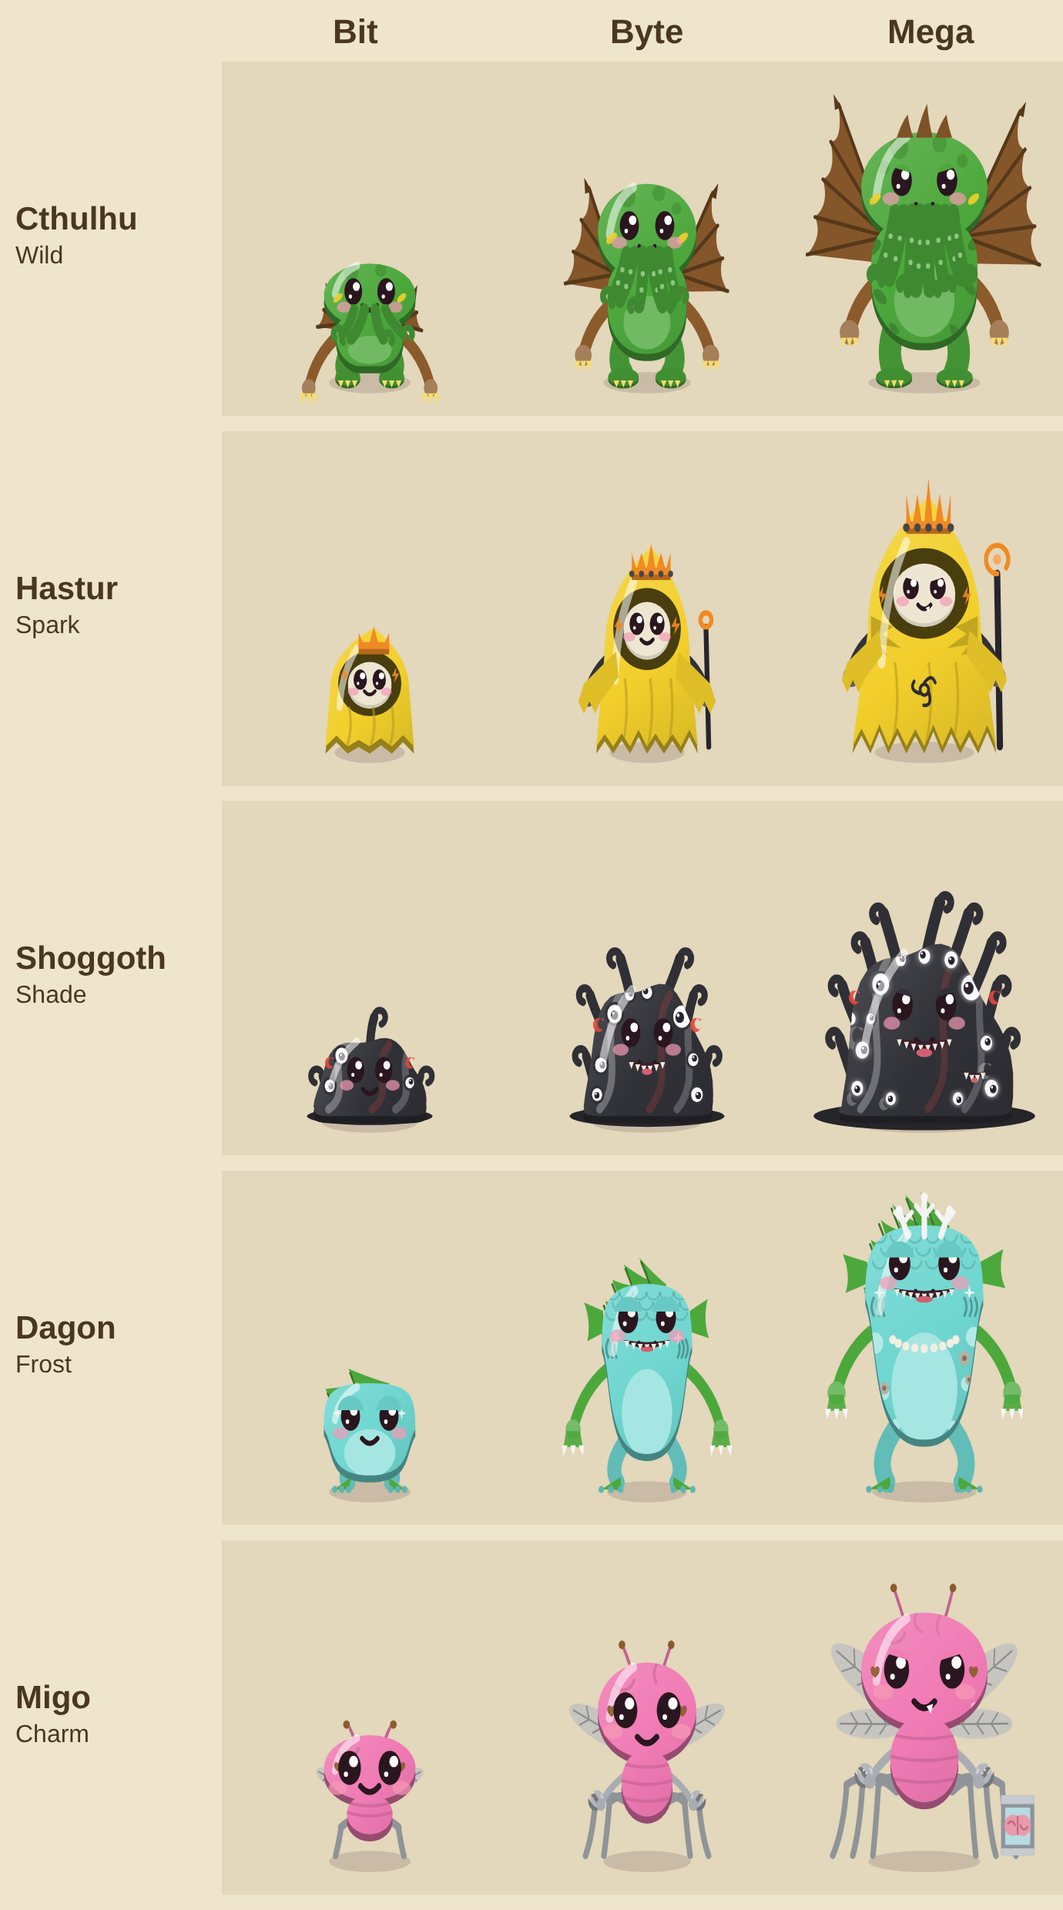
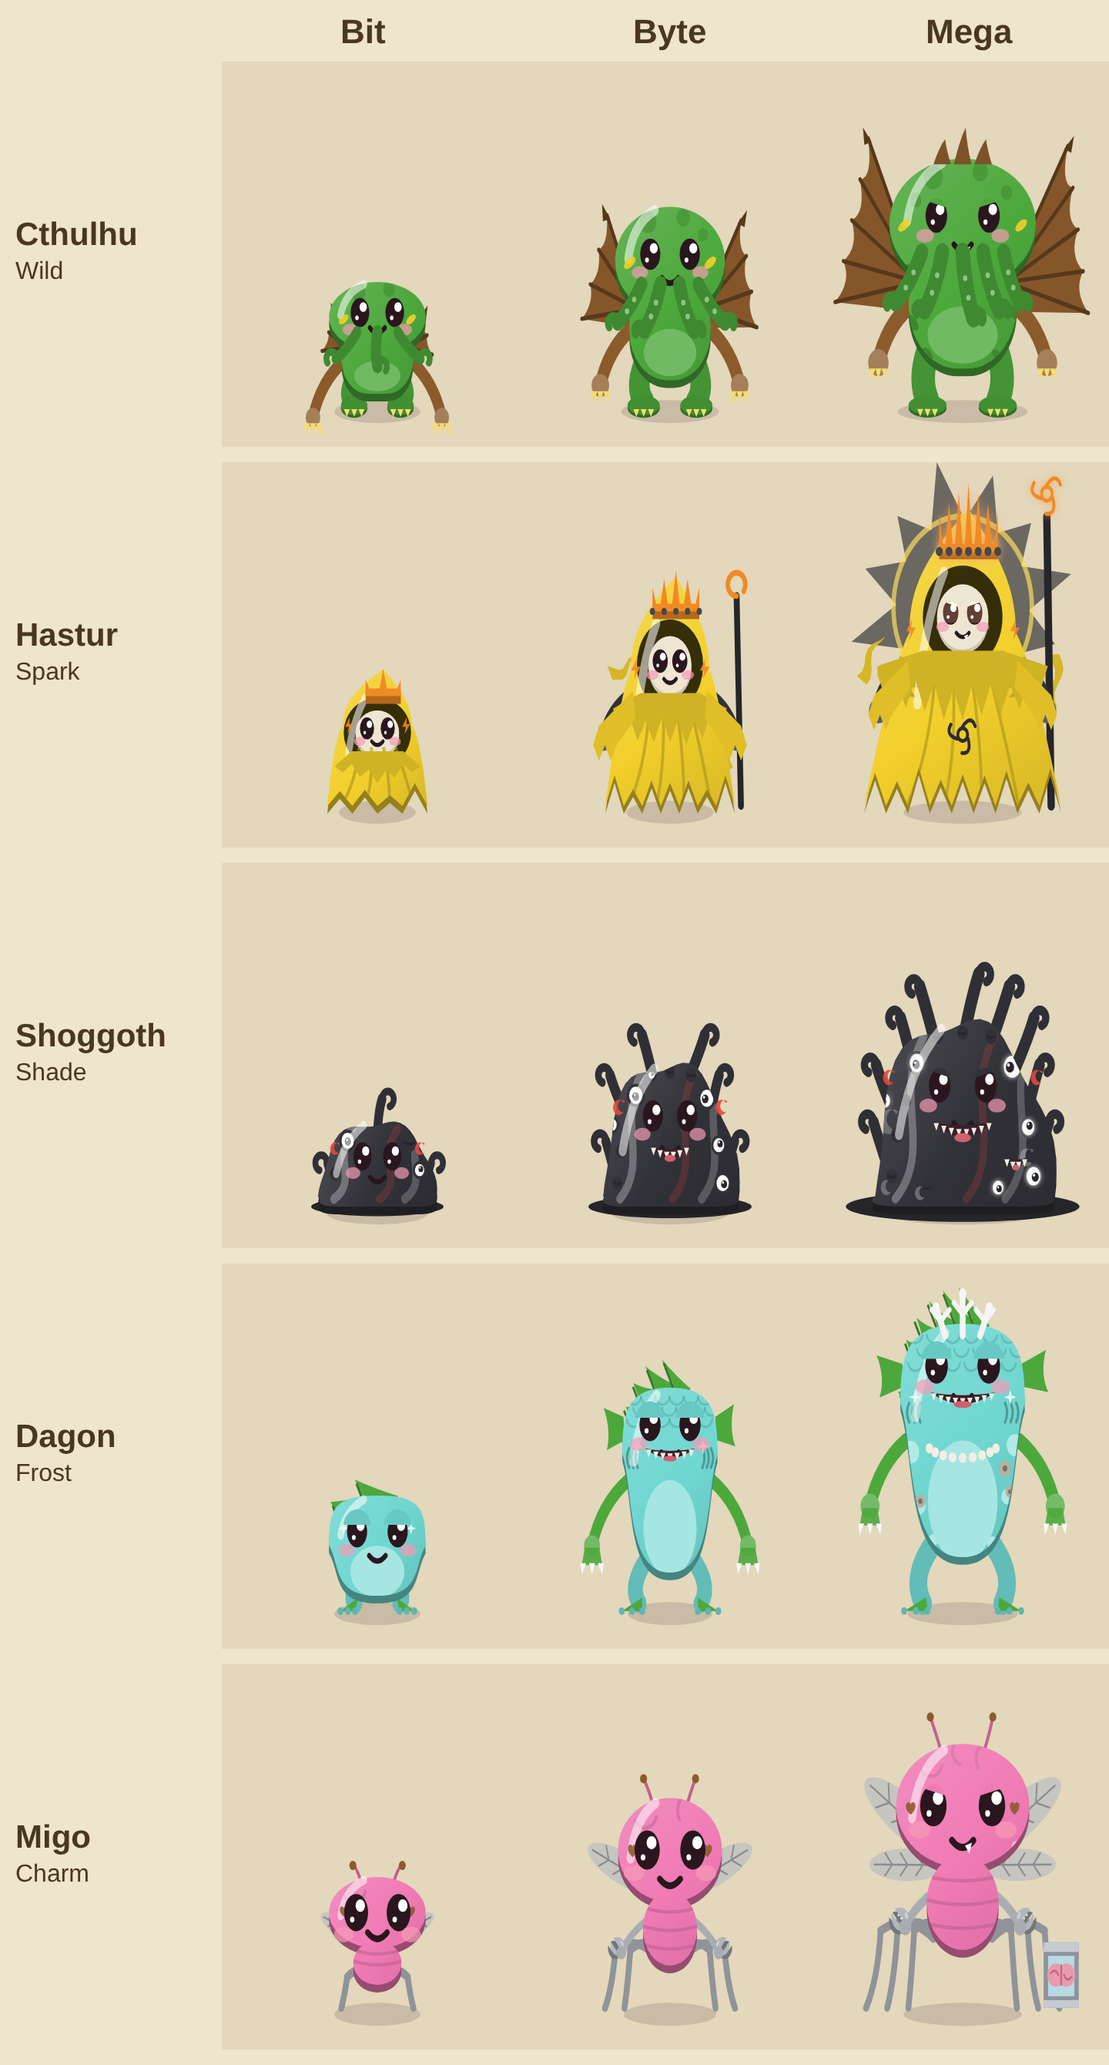
Cthulhu keeps its Bit shape, Hastur gets more presence, Shoggoth's eyes close in waves
Cthulhu: fewer feelers, spread wider, and the Bit's round body at every stage.
Hastur: a torn mantle cut into long points, rags drifting round it, a dark halo, glowing
eyes and a seven-point crown at Mega, and a sign on its staff.
Shoggoth: patches of eyes sink shut while others open across its body.

Claude-Session: https://claude.ai/code/session_01MQWzxVrGaM5SWzbnobBWB8

diff --git a/prototype/chibi.js b/prototype/chibi.js
@@ -3293,10 +3293,10 @@ x.feet.push([g.cx, 182, 10]); },
     /* ---------- the horror series: cosmic horrors from the Rift, drawn cute ---------- */
     /* Cthulhu: an octopus head with a beard of feelers on a crouching body, big bat wings and clawed hands and feet. Small wings and four feelers; long clawed arms, suckers and wings over its head from Byte; huge ribbed wings, eight feelers and a ridge of spines at Mega */
     Cthulhu: {
-      special: true, dims: { Bit: [62, 64], Byte: [74, 86], Mega: [86, 104] }, ll: st => by(st, 6, 9, 11),
+      special: true, dims: { Bit: [62, 64], Byte: [78, 80], Mega: [94, 96] }, ll: st => by(st, 6, 9, 11),
       bottom(st) { return 182 - this.ll(st); }, height(st) { return this.dims[st][1] + this.ll(st) + by(st, 18, 36, 56); },
-      hh: g => g.bh * by(g.stage, 0.62, 0.56, 0.52),
-      path(c, g) { const hh = this.hh(g), tw = g.bw * by(g.stage, 0.74, 0.8, 0.84); c.beginPath(); c.ellipse(g.cx, g.top + hh / 2, g.bw / 2, hh / 2, 0, 0, 7);
+      hh: g => g.bh * 0.62,
+      path(c, g) { const hh = this.hh(g), tw = g.bw * 0.74; c.beginPath(); c.ellipse(g.cx, g.top + hh / 2, g.bw / 2, hh / 2, 0, 0, 7);
         c.moveTo(g.cx + tw / 2, g.top + hh * 0.8); c.roundRect(g.cx - tw / 2, g.top + hh * 0.8, tw, g.bot - g.top - hh * 0.8, [tw * 0.3, tw * 0.3, tw * 0.46, tw * 0.46]); },
       arms: 'stub', armW: st => by(st, 7, 8, 9), handR: st => by(st, 5, 6, 7), shoulderY: 0.7, shoulderIn: 0.1, armK: 1.35,
       hand(g, x, side) { const a = x.P.arm[side < 0 ? 0 : 1], k = this.armK, sx = g.cx + side * (g.bw / 2 - 4 - g.bw * this.shoulderIn), sy = g.top + g.bh * this.shoulderY; return [sx + side * a[2] * k, sy + a[3] * k]; },
@@ -3316,9 +3316,9 @@ x.feet.push([g.cx, 182, 10]); },
       inside(c, g, x) { const S = g.stage, hh = this.hh(g); c.fillStyle = rgba(dk(x.body, 0.18), 0.55);   // spots on the head
         for (const [fx, fy, r] of [[0.3, 0.14, 5], [0.62, 0.1, 4], [0.8, 0.26, 3], [0.18, 0.32, 3]].slice(0, by(S, 2, 3, 4))) { c.beginPath(); c.arc(g.left + g.bw * fx, g.top + hh * fy, r * by(S, 1, 1.15, 1.3), 0, 7); c.fill(); }
         c.fillStyle = rgb(lt(x.body, 0.2)); c.beginPath(); c.ellipse(g.cx, g.bot - (g.bot - g.top - hh) * 0.42, g.bw * 0.24, (g.bot - g.top - hh) * 0.36, 0, 0, 7); c.fill(); },   // a round belly
-      front(c, g, x) { const S = g.stage, hh = this.hh(g), n = by(S, 4, 6, 8), y0 = g.top + hh * 0.72, len = by(S, 18, 32, 46), span = g.bw * by(S, 0.34, 0.42, 0.46), col = dk(x.body, 0.18);
+      front(c, g, x) { const S = g.stage, hh = this.hh(g), n = by(S, 3, 4, 5), y0 = g.top + hh * 0.72, len = by(S, 18, 26, 34), span = g.bw * by(S, 0.42, 0.52, 0.56), col = dk(x.body, 0.18);
         if (!x.back) for (let i = 0; i < n; i++) { const f = i / (n - 1) - 0.5, tx = g.cx + f * span, sw = Math.sin(x.t / 300 + i * 1.7) * 4, cu = f < 0 ? -1 : 1, l = len * (1 - Math.abs(f) * 0.45);   // the beard of feelers
-          const q = [tx, y0, tx + f * 6 + sw * 0.5, y0 + l * 0.6, tx + f * 10 + sw + cu * 4, y0 + l]; limb(c, q, by(S, 7, 8, 9) - Math.abs(f) * 2, col, x.L.armL, x.t);
+          const q = [tx, y0, tx + f * 12 + sw * 0.5, y0 + l * 0.6, tx + f * 22 + sw + cu * 4, y0 + l]; limb(c, q, by(S, 7, 9, 10) - Math.abs(f) * 2, col, x.L.armL, x.t);
           c.strokeStyle = rgb(col); c.lineWidth = by(S, 4, 4.5, 5); c.lineCap = 'round'; c.beginPath(); c.arc(q[4] + cu * 3, q[5], 3.5, cu > 0 ? Math.PI : 0, cu > 0 ? Math.PI * 2.2 : -Math.PI * 1.2, cu < 0); c.stroke();
           if (S !== 'Bit') { c.fillStyle = rgb(lt(x.body, 0.35)); for (const k of [0.35, 0.65]) { const p = qpt(q, k); c.beginPath(); c.arc(p[0], p[1], 1.5, 0, 7); c.fill(); } } }   // suckers
         if (!x.back) for (const sd of [-1, 1]) { const [hx, hy] = this.hand(g, x, sd); c.fillStyle = rgb(lt(x.acc, 0.3)); for (const k of [-1, 0, 1]) { c.beginPath(); c.moveTo(hx + k * 4 - 2, hy + 3); c.lineTo(hx + k * 5, hy + 9); c.lineTo(hx + k * 4 + 2, hy + 3); c.closePath(); c.fill(); } }   // claws
@@ -3327,40 +3327,57 @@ x.feet.push([g.cx, 182, 10]); },
       head: g => [g.cx, g.top, g.bw * 0.46],
       face(c, g, x, look) { const hh = FAM.Cthulhu.hh(g); return faceTwo(c, g, x, look, { ey: hh * 0.44 / g.bh, ex: 0.18, my: hh * 0.66 / g.bh, s: by(g.stage, 0.74, 0.8, 0.86) }); }
     },
-    /* Hastur: the King in Yellow. A tall hood with a pale mask deep inside it, a long tattered robe to the ground and a crown on the hood. A small crown; wide torn sleeves, pale hands and a staff from Byte; a tall crown with jewels, a staff with a curling head and a sign on the robe at Mega */
+    /* Hastur: the King in Yellow. A tall hood with a pale mask deep inside it, a long tattered robe to the ground, a torn mantle over its shoulders and a crown on the hood. A small crown; torn sleeves, a staff, a taller crown and rags drifting round it from Byte; a huge crown, a dark halo behind it, glowing eyes, a staff with its sign and a flared, ragged robe at Mega */
     Hastur: {
-      special: true, dims: { Bit: [54, 66], Byte: [64, 88], Mega: [76, 108] }, slots: { feet: false },
-      bottom() { return 182; }, height(st) { return this.dims[st][1] + by(st, 22, 34, 50); },
+      special: true, dims: { Bit: [56, 68], Byte: [70, 92], Mega: [86, 116] }, slots: { feet: false },
+      bottom() { return 182; }, height(st) { return this.dims[st][1] + by(st, 26, 40, 62); },
       mask: [238, 230, 210],
-      path(c, g, x) { const S = g.stage, R = g.left + g.bw, fl = g.bw * by(S, 0.06, 0.1, 0.14), n = by(S, 4, 6, 8), j = by(S, 5, 8, 11), t = x ? x.t : 0, tip = by(S, 8, 14, 18);
-        c.beginPath(); c.moveTo(g.cx + 3, g.top - tip); c.bezierCurveTo(g.cx + g.bw * 0.3, g.top + g.bh * 0.02, R, g.top + g.bh * 0.2, R, g.top + g.bh * 0.46); c.lineTo(R + fl, g.bot);
-        for (let i = 1; i <= n * 2; i++) { const f = i / (n * 2), px = R + fl - f * (g.bw + fl * 2), w = Math.sin(t / 260 + i) * 1.5; c.lineTo(px, i % 2 ? g.bot - j + w : g.bot); }   // the tattered hem
-        c.lineTo(g.left - fl, g.bot); c.lineTo(g.left, g.top + g.bh * 0.46); c.bezierCurveTo(g.left, g.top + g.bh * 0.2, g.cx - g.bw * 0.3, g.top + g.bh * 0.02, g.cx + 3, g.top - tip); c.closePath(); },
-      arms: 'stub', armW: st => by(st, 0, 8, 9), handR: st => by(st, 0, 5, 6), shoulderY: 0.5,
+      path(c, g, x) { const S = g.stage, R = g.left + g.bw, fl = g.bw * by(S, 0.08, 0.16, 0.24), n = by(S, 4, 7, 9), j = by(S, 6, 10, 14), t = x ? x.t : 0, tip = by(S, 10, 16, 22);
+        c.beginPath(); c.moveTo(g.cx + 4, g.top - tip); c.bezierCurveTo(g.cx + g.bw * 0.28, g.top + g.bh * 0.02, g.cx + g.bw * 0.4, g.top + g.bh * 0.14, g.cx + g.bw * 0.4, g.top + g.bh * 0.32);
+        c.quadraticCurveTo(R, g.top + g.bh * 0.4, R + fl, g.bot);   // the robe flaring out wide to the ground
+        for (let i = 1; i <= n * 2; i++) { const f = i / (n * 2), px = R + fl - f * (g.bw + fl * 2), w = Math.sin(t / 260 + i) * 2; c.lineTo(px, i % 2 ? g.bot - j - (i % 4 === 1 ? 4 : 0) + w : g.bot); }   // the tattered hem
+        c.lineTo(g.left - fl, g.bot); c.quadraticCurveTo(g.left, g.top + g.bh * 0.4, g.cx - g.bw * 0.4, g.top + g.bh * 0.32);
+        c.bezierCurveTo(g.cx - g.bw * 0.4, g.top + g.bh * 0.14, g.cx - g.bw * 0.28, g.top + g.bh * 0.02, g.cx + 4, g.top - tip); c.closePath(); },
+      arms: 'stub', armW: st => by(st, 0, 8, 10), handR: st => by(st, 0, 5, 6.5), shoulderY: 0.46,
       hand(g, x, side) { const a = x.P.arm[side < 0 ? 0 : 1], sx = g.cx + side * (g.bw / 2 - 4), sy = g.top + g.bh * this.shoulderY; return [sx + side * a[2], sy + a[3]]; },
       sign(c, cx, cy, r, col) { c.strokeStyle = col; c.lineWidth = 2; c.lineCap = 'round'; c.beginPath(); c.arc(cx, cy, r * 0.28, 0, 7); c.stroke();   // its own sign: three hooks round a ring
         for (let k = 0; k < 3; k++) { const a = k * Math.PI * 2 / 3 - Math.PI / 2; c.beginPath(); c.moveTo(cx + Math.cos(a) * r * 0.36, cy + Math.sin(a) * r * 0.36);
           c.quadraticCurveTo(cx + Math.cos(a + 0.5) * r, cy + Math.sin(a + 0.5) * r, cx + Math.cos(a + 1.1) * r * 0.8, cy + Math.sin(a + 1.1) * r * 0.8); c.stroke(); } },
-      behind(c, g, x) { const S = g.stage; if (S === 'Bit') return; const [hx, hy] = this.hand(g, x, 1), top = hy - by(S, 0, 40, 58), gold = x.acc;   // the staff, held in its right hand
-        c.strokeStyle = rgb(dk(x.parts, 0.25)); c.lineWidth = by(S, 0, 3.5, 4.5); c.lineCap = 'round'; c.beginPath(); c.moveTo(hx + 2, 182); c.lineTo(hx, top); c.stroke();
-        c.strokeStyle = rgb(gold); c.lineWidth = 3; c.beginPath(); if (S === 'Mega') { c.arc(hx, top - 8, 8, Math.PI * 0.5, Math.PI * 2.2); } else { c.arc(hx, top - 4, 4, 0, 7); } c.stroke();
-        if (S === 'Mega') { c.fillStyle = rgb(lt(gold, 0.3)); c.beginPath(); c.arc(hx, top - 8, 3, 0, 7); c.fill(); } },
-      inside(c, g, x) { const S = g.stage, mx = g.cx, my = g.top + g.bh * by(S, 0.38, 0.32, 0.29), rx = g.bw * 0.32, ry = g.bh * by(S, 0.24, 0.18, 0.16);
-        c.fillStyle = rgb(dk(x.body, 0.7)); c.beginPath(); c.ellipse(mx, my + 1, rx * 1.25, ry * 1.3, 0, 0, 7); c.fill();   // the deep, dark hood
-        c.fillStyle = rgb(dk(this.mask, 0.12)); c.beginPath(); c.ellipse(mx, my + 3, rx * 0.86, ry * 0.86, 0, 0, 7); c.fill(); c.fillStyle = rgb(this.mask); c.beginPath(); c.ellipse(mx, my + 1, rx * 0.86, ry * 0.86, 0, 0, 7); c.fill();   // the pale mask
-        c.strokeStyle = rgba(dk(x.body, 0.25), 0.6); c.lineWidth = 1.8; for (const f of [-0.26, 0.04, 0.28]) { c.beginPath(); c.moveTo(g.cx + g.bw * f, g.top + g.bh * 0.62); c.quadraticCurveTo(g.cx + g.bw * (f + 0.05), g.top + g.bh * 0.82, g.cx + g.bw * (f - 0.03), g.bot); c.stroke(); }   // folds
-        if (S === 'Mega' && !x.back) this.sign(c, g.cx, g.top + g.bh * 0.74, 11, rgb(dk(x.parts, 0.1))); },
-      front(c, g, x) { const S = g.stage, col = x.acc;
-        if (S !== 'Bit') for (const sd of [-1, 1]) { const [hx, hy] = this.hand(g, x, sd), sx = g.cx + sd * (g.bw / 2 - 4), sy = g.top + g.bh * this.shoulderY;   // wide torn sleeves
-          c.fillStyle = rgb(dk(x.body, 0.08)); c.beginPath(); c.moveTo(sx - sd * 4, sy - 4); c.lineTo(hx + sd * 3, hy - 8); for (let k = 0; k <= 4; k++) c.lineTo(hx + sd * (7 - k * 4), hy + 2 + (k % 2 ? 7 : 0)); c.lineTo(sx - sd * 6, sy + 10); c.closePath(); c.fill(); }
-        const cy = g.top + by(S, 2, 0, -2), cw = by(S, 11, 14, 16), ch = by(S, 9, 13, 22), pts = by(S, 3, 5, 5);   // a crown on the hood
-        c.fillStyle = rgb(dk(col, 0.25)); c.fillRect(g.cx + 3 - cw, cy - 1, cw * 2, 6); c.fillStyle = rgb(col); c.beginPath(); c.moveTo(g.cx + 3 - cw, cy + 2);
-        for (let i = 0; i < pts; i++) { const f = i / (pts - 1), px = g.cx + 3 - cw + f * cw * 2, mid = i === (pts - 1) / 2; c.lineTo(px - (i ? 3 : 0), cy - 2); c.lineTo(px, cy - ch * (mid ? 1.2 : 0.8)); c.lineTo(px + (i < pts - 1 ? 3 : 0), cy - 2); }
-        c.lineTo(g.cx + 3 + cw, cy + 2); c.closePath(); c.fill();
-        if (S !== 'Bit') { c.fillStyle = rgb(lt(x.parts, 0.1)); for (let i = 0; i < pts; i++) { c.beginPath(); c.arc(g.cx + 3 - cw + i / (pts - 1) * cw * 2, cy + 1.5, S === 'Mega' ? 2.4 : 1.8, 0, 7); c.fill(); } } },   // jewels on the band
-      hl: g => [g.left + g.bw * 0.12, g.top + g.bh * 0.62, g.left + g.bw * 0.14, g.top + g.bh * 0.3, g.left + g.bw * 0.34, g.top + g.bh * 0.06],
-      head: g => [g.cx, g.top + 4, g.bw * 0.4],
-      face: (c, g, x, look) => faceTwo(c, g, x, look, { ey: by(g.stage, 0.36, 0.3, 0.27), ex: 0.12, my: by(g.stage, 0.47, 0.39, 0.35), lidCol: FAM.Hastur.mask, s: by(g.stage, 0.56, 0.62, 0.66) })
+      rag(c, x0, y0, len, a, col, t, k) { c.save(); c.translate(x0, y0); c.rotate(a); c.fillStyle = rgb(col); c.beginPath(); c.moveTo(0, -4);   // a strip of torn cloth
+        for (let i = 0; i <= 6; i++) c.lineTo(i * len / 6, -4 * (1 - i / 7) + Math.sin(t / 240 + k + i) * 2.5); c.lineTo(len + 4, Math.sin(t / 240 + k + 7) * 2.5);
+        for (let i = 6; i >= 0; i--) c.lineTo(i * len / 6, 4 * (1 - i / 7) + Math.sin(t / 240 + k + i) * 2.5); c.closePath(); c.fill(); c.restore(); },
+      behind(c, g, x) { const S = g.stage, hy = g.top + g.bh * 0.22;
+        if (S === 'Mega') { const pulse = 0.8 + 0.2 * Math.sin(x.t / 500); c.save(); c.globalAlpha = 0.85;   // a dark halo with rays behind its head
+          c.fillStyle = rgba(dk(x.parts, 0.2), 0.8 * pulse); c.beginPath(); for (let k = 0; k < 24; k++) { const a = k / 24 * Math.PI * 2 + x.t / 4000, r = k % 2 ? g.bw * 0.5 : g.bw * (0.78 + 0.08 * Math.sin(k + x.t / 300)); c.lineTo(g.cx + Math.cos(a) * r, hy + Math.sin(a) * r); } c.closePath(); c.fill();
+          c.strokeStyle = rgba(lt(x.body, 0.25), 0.9 * pulse); c.lineWidth = 3; c.beginPath(); c.arc(g.cx, hy, g.bw * 0.52, 0, 7); c.stroke(); c.restore(); }
+        if (S !== 'Bit') for (let k = 0; k < by(S, 0, 2, 5); k++) { const a = x.t / 1500 + k * Math.PI * 2 / by(S, 1, 2, 5), rx = g.bw * 0.78, px = g.cx + Math.cos(a) * rx, py = g.top + g.bh * 0.55 + Math.sin(a) * g.bh * 0.32;   // rags drifting round it
+          this.rag(c, px, py, by(S, 0, 18, 24), a + 2, dk(x.body, 0.12), x.t, k); }
+        if (S === 'Bit') return; const [hx, hy2] = this.hand(g, x, 1), top = g.top - by(S, 0, 6, 18), gold = x.acc;   // the staff, held in its right hand
+        c.strokeStyle = rgb(dk(x.parts, 0.25)); c.lineWidth = by(S, 0, 4, 5); c.lineCap = 'round'; c.beginPath(); c.moveTo(hx + 3, 182); c.lineTo(hx, top); c.stroke();
+        if (S === 'Mega') { c.save(); c.shadowColor = rgba(lt(gold, 0.3), 1); c.shadowBlur = 10; this.sign(c, hx, top - 12, 13, rgb(gold)); c.restore(); }
+        else { c.strokeStyle = rgb(gold); c.lineWidth = 3; c.beginPath(); c.arc(hx, top - 6, 6, Math.PI * 0.5, Math.PI * 2.2); c.stroke(); } },
+      inside(c, g, x) { const S = g.stage, mx = g.cx, my = g.top + g.bh * by(S, 0.36, 0.28, 0.25), rx = g.bw * by(S, 0.3, 0.26, 0.23), ry = g.bh * by(S, 0.22, 0.17, 0.15);
+        c.fillStyle = rgb(dk(x.body, 0.78)); c.beginPath(); c.ellipse(mx, my + 1, rx * 1.3, ry * 1.35, 0, 0, 7); c.fill();   // the deep, dark hood
+        c.fillStyle = rgb(dk(this.mask, 0.14)); c.beginPath(); c.ellipse(mx, my + 3, rx * 0.84, ry * 0.86, 0, 0, 7); c.fill(); c.fillStyle = rgb(this.mask); c.beginPath(); c.ellipse(mx, my + 1, rx * 0.84, ry * 0.86, 0, 0, 7); c.fill();   // the pale mask
+        c.strokeStyle = rgba(dk(x.body, 0.3), 0.6); c.lineWidth = 2; for (const f of [-0.3, -0.1, 0.1, 0.3]) { c.beginPath(); c.moveTo(g.cx + g.bw * f * 0.7, g.top + g.bh * 0.5); c.quadraticCurveTo(g.cx + g.bw * (f + 0.05), g.top + g.bh * 0.8, g.cx + g.bw * f * 1.4, g.bot); c.stroke(); }   // deep folds
+        if (S === 'Mega' && !x.back) this.sign(c, g.cx, g.top + g.bh * 0.72, 12, rgb(dk(x.parts, 0.1))); },
+      front(c, g, x) { const S = g.stage, col = x.acc, sy = g.top + g.bh * by(S, 0.6, 0.47, 0.42), mw = g.bw * by(S, 0.5, 0.58, 0.64), ml = g.bh * by(S, 0.18, 0.22, 0.24);
+        c.fillStyle = rgb(dk(x.body, 0.14)); c.beginPath(); c.moveTo(g.cx - g.bw * 0.3, sy - 4); c.lineTo(g.cx + g.bw * 0.3, sy - 4);   // a torn mantle over its shoulders, cut into long points
+        const n = by(S, 5, 7, 9); c.lineTo(g.cx + mw, sy + 4); for (let i = 1; i <= n * 2; i++) { const f = i / (n * 2), px = g.cx + mw - f * mw * 2, d = Math.sin(f * Math.PI) * 0.4 + 0.6, w = Math.sin(x.t / 300 + i) * 1.5; c.lineTo(px, sy + (i % 2 ? ml * d : ml * d * 0.45) + w); }
+        c.lineTo(g.cx - mw, sy + 4); c.closePath(); c.fill();
+        if (S !== 'Bit') for (const sd of [-1, 1]) { const [hx, hy] = this.hand(g, x, sd), sx = g.cx + sd * (g.bw / 2 - 4), sy2 = g.top + g.bh * this.shoulderY;   // torn sleeves
+          c.fillStyle = rgb(dk(x.body, 0.08)); c.beginPath(); c.moveTo(sx - sd * 4, sy2 - 4); c.lineTo(hx + sd * 3, hy - 8); for (let k = 0; k <= 4; k++) c.lineTo(hx + sd * (7 - k * 4), hy + 2 + (k % 2 ? 8 : 0)); c.lineTo(sx - sd * 6, sy2 + 10); c.closePath(); c.fill(); }
+        const cy = g.top + by(S, 2, 0, -2), cw = by(S, 12, 16, 20), ch = by(S, 10, 16, 28), pts = by(S, 3, 5, 7);   // a crown on the hood
+        if (S === 'Mega') { c.save(); c.shadowColor = rgba(lt(col, 0.3), 1); c.shadowBlur = 12; }
+        c.fillStyle = rgb(dk(col, 0.25)); c.fillRect(g.cx + 4 - cw, cy - 1, cw * 2, 7); c.fillStyle = rgb(col); c.beginPath(); c.moveTo(g.cx + 4 - cw, cy + 2);
+        for (let i = 0; i < pts; i++) { const f = i / (pts - 1), px = g.cx + 4 - cw + f * cw * 2, mid = Math.abs(f - 0.5); c.lineTo(px - (i ? 2.5 : 0), cy - 2); c.lineTo(px, cy - ch * (1.2 - mid * 1.1)); c.lineTo(px + (i < pts - 1 ? 2.5 : 0), cy - 2); }
+        c.lineTo(g.cx + 4 + cw, cy + 2); c.closePath(); c.fill(); if (S === 'Mega') c.restore();
+        if (S !== 'Bit') { c.fillStyle = rgb(lt(x.parts, 0.1)); for (let i = 0; i < pts; i++) { c.beginPath(); c.arc(g.cx + 4 - cw + i / (pts - 1) * cw * 2, cy + 2, S === 'Mega' ? 2.4 : 1.8, 0, 7); c.fill(); } } },   // jewels on the band
+      hl: g => [g.left + g.bw * 0.16, g.top + g.bh * 0.6, g.left + g.bw * 0.2, g.top + g.bh * 0.3, g.left + g.bw * 0.36, g.top + g.bh * 0.08],
+      head: g => [g.cx, g.top + 4, g.bw * 0.36],
+      face(c, g, x, look) { const S = g.stage, fi = faceTwo(c, g, x, look, { ey: by(S, 0.34, 0.27, 0.24), ex: by(S, 0.12, 0.1, 0.09), my: by(S, 0.45, 0.36, 0.32), lidCol: FAM.Hastur.mask, s: by(S, 0.56, 0.6, 0.62) });
+        if (S !== 'Mega' || x.back) return fi; c.save(); c.globalCompositeOperation = 'lighter'; const gl = 0.35 + Math.sin(x.t / 250) * 0.12;   // its eyes glow at Mega
+        for (const sd of [-1, 1]) { c.fillStyle = rgba(lt(x.acc, 0.3), gl); c.beginPath(); c.arc(g.cx + sd * fi.ex, fi.ey, 9 * fi.s, 0, 7); c.fill(); } c.restore(); return fi; }
     },
     /* Shoggoth: a wide mound of dark goo with eyes of every size all over it, feelers curling up off its top and a wide toothy mouth. Three spare eyes and three feelers; eight eyes, six feelers and teeth from Byte; fourteen eyes that glow, nine feelers and a second mouth on its side at Mega */
     Shoggoth: {
@@ -3370,7 +3387,8 @@ x.feet.push([g.cx, 182, 10]); },
         for (let i = 0; i <= n; i++) { const a = Math.PI + i / n * Math.PI, w = 1 + 0.05 * Math.sin(a * 6 + t / 400) + 0.03 * Math.sin(a * 3 - t / 300); const px = g.cx + Math.cos(a) * rx * w, py = base + Math.sin(a) * ry * w;
           i ? c.lineTo(px, py) : c.moveTo(px, py); }
         c.quadraticCurveTo(g.cx + rx * 1.1, g.bot, g.cx + rx * 0.7, g.bot); c.lineTo(g.cx - rx * 0.7, g.bot); c.quadraticCurveTo(g.cx - rx * 1.1, g.bot, g.cx - rx, base); c.closePath(); },
-      eyeAt(c, px, py, r, t, k, lidCol, glow) { const shut = (t + k * 913) % 3400 < 140; c.fillStyle = rgb(lidCol); c.beginPath(); c.arc(px, py, r + 1.5, 0, 7); c.fill();
+      eyeAt(c, px, py, r0, t, k, lidCol, glow, wave) { const o = wave == null ? 1 : Math.max(0, Math.min(1, (Math.sin(t / 1300 + wave) + 0.25) * 1.6)), shut = o < 0.2 || (t + k * 913) % 3400 < 140, r = r0 * (0.55 + 0.45 * o);   // o: how far open, so whole patches of eyes sink shut while others open
+        c.fillStyle = rgb(lidCol); c.beginPath(); c.arc(px, py, r + 1.5, 0, 7); c.fill();
         if (shut) { c.strokeStyle = '#2b2430'; c.lineWidth = 1.4; c.beginPath(); c.moveTo(px - r, py); c.quadraticCurveTo(px, py + r * 0.5, px + r, py); c.stroke(); return; }
         if (glow) { c.save(); c.shadowColor = rgba(glow, 0.9); c.shadowBlur = 6; } c.fillStyle = glow ? rgb(lt(glow, 0.55)) : '#fff'; c.beginPath(); c.arc(px, py, r, 0, 7); c.fill(); if (glow) c.restore();
         const ox = Math.sin(t / 900 + k) * r * 0.3, oy = Math.cos(t / 700 + k * 2) * r * 0.2;
@@ -3387,7 +3405,7 @@ x.feet.push([g.cx, 182, 10]); },
         for (const [f, col, a] of [[0.22, x.parts, 0.3], [0.62, x.acc, 0.2], [0.84, x.parts, 0.22]]) { c.strokeStyle = rgba(col, a); c.lineWidth = 5; c.beginPath(); c.moveTo(g.left + g.bw * (f - 0.1), g.bot - 4);   // an oily sheen
           c.bezierCurveTo(g.left + g.bw * (f + 0.12), g.top + g.bh * 0.7, g.left + g.bw * (f - 0.12), g.top + g.bh * 0.4, g.left + g.bw * (f + 0.06), g.top + g.bh * 0.1); c.stroke(); }
         if (x.back) return; const E = [[0.13, 0.62, 4], [0.87, 0.58, 3.5], [0.24, 0.24, 5], [0.78, 0.26, 6], [0.5, 0.08, 3.5], [0.1, 0.84, 3.5], [0.9, 0.84, 4], [0.36, 0.1, 3], [0.66, 0.1, 4], [0.06, 0.44, 3], [0.94, 0.42, 3.5], [0.3, 0.9, 3], [0.7, 0.9, 3], [0.18, 0.44, 2.5]];
-        E.slice(0, by(S, 3, 8, 14)).forEach(([fx, fy, r], k) => this.eyeAt(c, g.left + g.bw * fx, g.top + g.bh * fy, r * by(S, 0.9, 1.05, 1.2), x.t, k, x.body, S === 'Mega' ? x.parts : null));
+        E.slice(0, by(S, 4, 10, 14)).forEach(([fx, fy, r], k) => this.eyeAt(c, g.left + g.bw * fx, g.top + g.bh * fy, r * by(S, 0.9, 1.05, 1.2), x.t, k, x.body, S === 'Mega' ? x.parts : null, fx * 6 + fy * 3));
         if (S === 'Mega') this.mouth(c, g.left + g.bw * 0.8, g.top + g.bh * 0.74, 16, 5, 4, '#d06070'); },
       hl: g => [g.left + g.bw * 0.14, g.top + g.bh * 0.62, g.left + g.bw * 0.2, g.top + g.bh * 0.26, g.left + g.bw * 0.38, g.top + g.bh * 0.06],
       head: g => [g.cx, g.top + 4, g.bw * 0.42],
